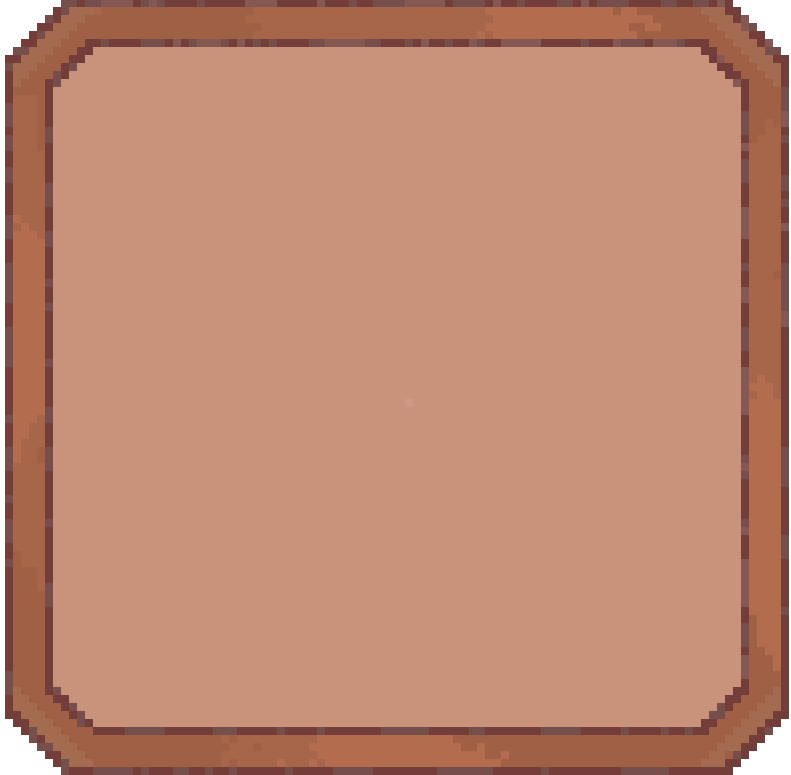
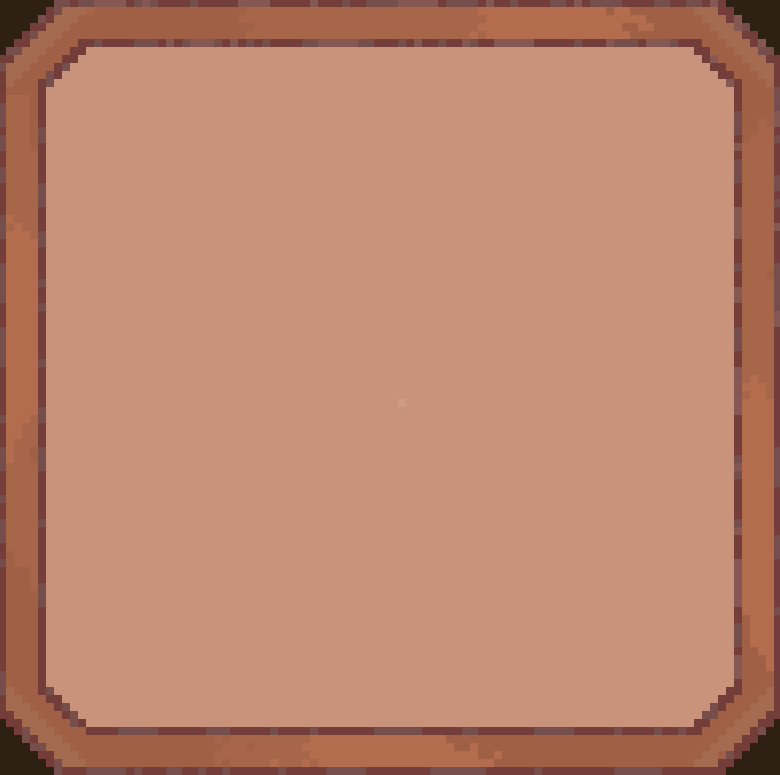
Added closet border and outfit border. Added starting code for RollScreen.jsx. Changed some positioning aspects in PopupArrowButton.jsx and removed unnecessary text feature from HangerButton.jsx

diff --git a/frontend/src/components/PageOne.jsx b/frontend/src/components/PageOne.jsx
@@ -14,36 +14,25 @@ export function PageOne()
   
   return(
     <>
-      {/* <div className = "flex justify-center items-center"> */}
-        <dialog ref={dialogRef}>
-          <div className="grid-rows-3 content-evenly content-center size-[500px] bg-no-repeat bg-contain bg-[url('/text_box.png')]">
-            <div>
-              <h3 className="py-2">Welcome!</h3>
-            </div>
-            <div>
-              <p className="text-balance text-wrap">
-              This is fit pookie, a web app  <br></br>
-              where you pull the slot  <br></br>
-              machine to pick an outfit. <br></br><br></br>
-              Before we make our first pull, let's<br></br>
-              start by clicking the yes button below. <br></br>
-              This will take us to the closet where <br></br>
-              we can add our first outfit pieces!
-              </p>
-            </div>
-            {/* To make your first pull, you need to add outfit
-            pieces to your wardrobe. You can do this by clicking
-            the hanger icon, then 
-            If you select to choose a fit, upload <br></br> 
-            images of your clothes to the closet. <br></br>
-            Once you have uploaded images, you <br></br>
-            can generate an outfit using the slot <br></br>
-            machine. If you want to save the fit <br></br>
-            to your gallery, click the save icon. 
-            */}
-            <PopupArrowButton isInvisible={true} text = "OK" textSize = "text-[1.75em]" isRight = {true} iconSize= "w-1/28 h-1/4" onClick={() => dialogRef.current.close()}/>          
+      {/* <dialog className="overflow-hidden shadow-[0px_0px_100px_35px_rgba(153,109,6,0.65)] bg-blend-multiply" ref={dialogRef}> */}
+      <dialog className="overflow-hidden transition-opacity duration-10000 ease-out" ref={dialogRef}>
+        <div className="grid-rows-3 content-evenly content-center w-[452px] h-[448px] bg-no-repeat bg-contain bg-[url('/text_box.png')]">
+          <div className="pt-6 pb-4">
+            <h5>Welcome!</h5>
           </div>
-        </dialog>
+          <div className="pb-4">
+            <p className="text-balance text-wrap">
+            This is fit pookie, a web app where  <br></br>
+            you pull the slot machine to pick an <br></br>
+            outfit. Before we make our first pull, <br></br>
+            let's start by clicking the yes button <br></br>
+            below. This will take us to the closet <br></br>
+            so we can add our first outfit pieces! <br></br>
+            </p>
+          </div>
+          <PopupArrowButton isInvisible={true} text = "OK" textSize = "text-[1.75em]" isRight = {true} iconSize= "w-1/28 h-1/4" onClick={() => dialogRef.current.close()}/>          
+        </div>
+      </dialog>
     </>
   )
 }

diff --git a/frontend/src/pages/RollScreen.jsx b/frontend/src/pages/RollScreen.jsx
@@ -1,0 +1,23 @@
+import slotMachine from '../assets/slot_machine_full.png'
+import { useNavigate } from 'react-router-dom'
+
+export function RollScreen() {
+  const navigate=useNavigate()
+    
+  return (
+    <>
+    {/* <div className = "grid grid-flow-col auto-cols-max">
+          <div>
+            <h1>CHOOSE YOUR OUTFIT?</h1>
+          </div>
+            <HangerButton iconSize="" padSize = "" onClick= {() => navigate('/WardrobeScreen')}/>
+        </div> */}
+      <div className = "grid grid-flow-col auto-cols-max">
+        <HangerButton iconSize="" padSize = "" onClick= {() => navigate('/WardrobeScreen')}/>
+      </div>
+      <div className="p-4">
+        <img className="size-1/3 mx-auto object-contain" src={slotMachine} alt="Slot Machine" />
+      </div> 
+    </>
+  )
+}

diff --git a/frontend/src/components/HangerButton.jsx b/frontend/src/components/HangerButton.jsx
@@ -1,14 +1,16 @@
 import hangerIcon from '../assets/hanger_icon.png'
 
-export function HangerButton ({ onClick, text, padSize, iconSize })
+export function HangerButton ({ onClick, padSize, iconSize })
 {
-//   let classStr = "" + iconSize + " " + padSize
-let classStr = "flex justify-end " + padSize
+
+  let classStr = "flex justify-end " + padSize
+// let classStr = "absolute top-[34px] left-[75px] " + padSize
+
   return (
+    // <div className="relative size-[150px] content-center">
     <div className="content-center">
       <button className = {classStr} onClick={onClick}>
         <img className={iconSize} src={hangerIcon}/>
-          {text}
       </button>
     </div>
   ) 

diff --git a/frontend/src/components/PopupArrowButton.jsx b/frontend/src/components/PopupArrowButton.jsx
@@ -5,15 +5,15 @@ export function PopupArrowButton({ isInvisible, onClick, text, textSize, isRight
 {
   let icon = null
   let classStr = ""
-  let classNameStr = "absolute left-[225px] " + textSize 
+  let classNameStr = "absolute left-[207px] " + textSize 
 
   if (isInvisible)
     {
-      classStr="absolute left-[197px] bottom-[36px] invisible group-hover:visible " + iconSize 
+      classStr="absolute left-[180px] bottom-[36px] invisible group-hover:visible " + iconSize 
     }
   else
     {
-      classStr= "absolute left-[197px] bottom-[36px] " + iconSize
+      classStr= "absolute left-[180px] bottom-[36px] " + iconSize
     }
 
     if (isRight)

diff --git a/frontend/src/index.css b/frontend/src/index.css
@@ -87,6 +87,10 @@ dialog {
   /* Add any other styling for your dialog, e.g., width, height, background */
 }
 
+dialog::backdrop {
+  backdrop-filter: blur(10px)
+}
+
 button {
   /* font-size: 5em; */
   font-family: inherit;
